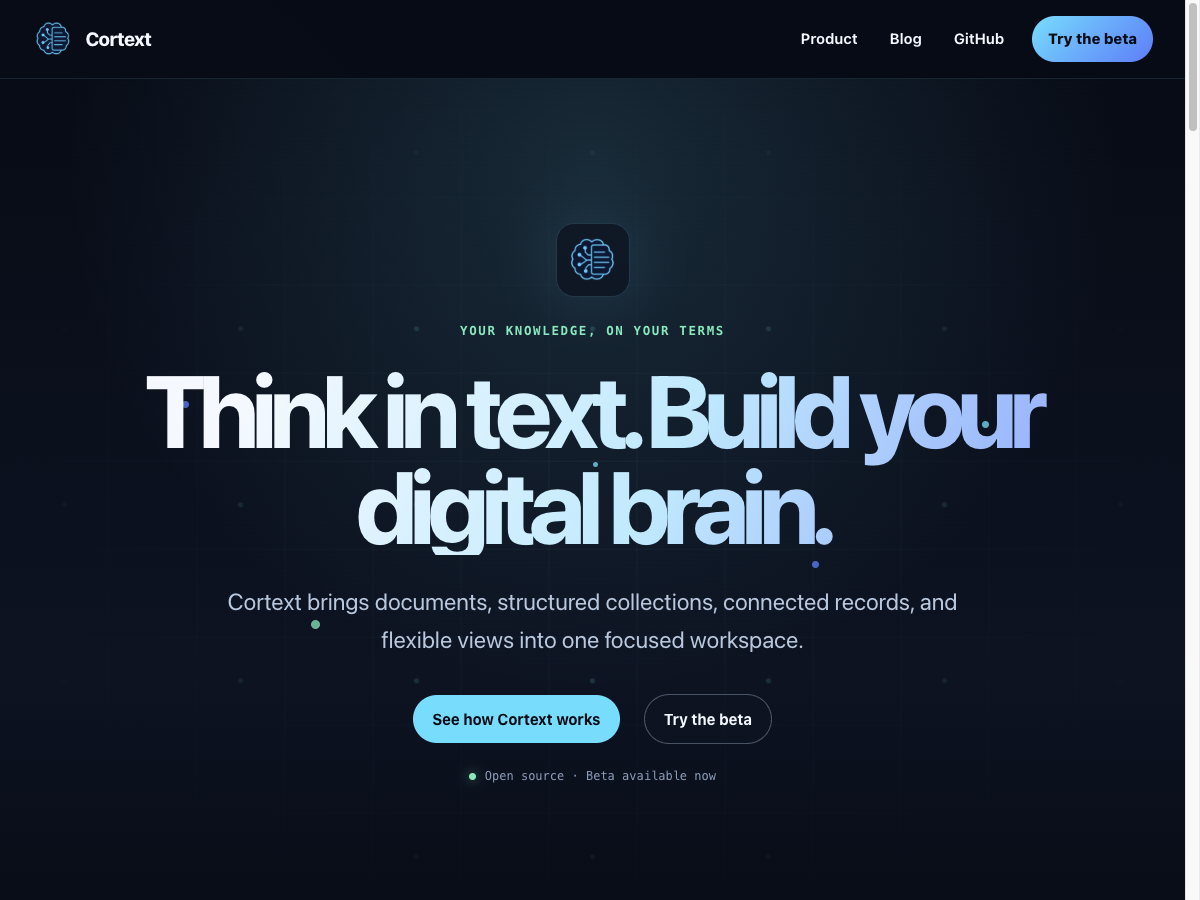
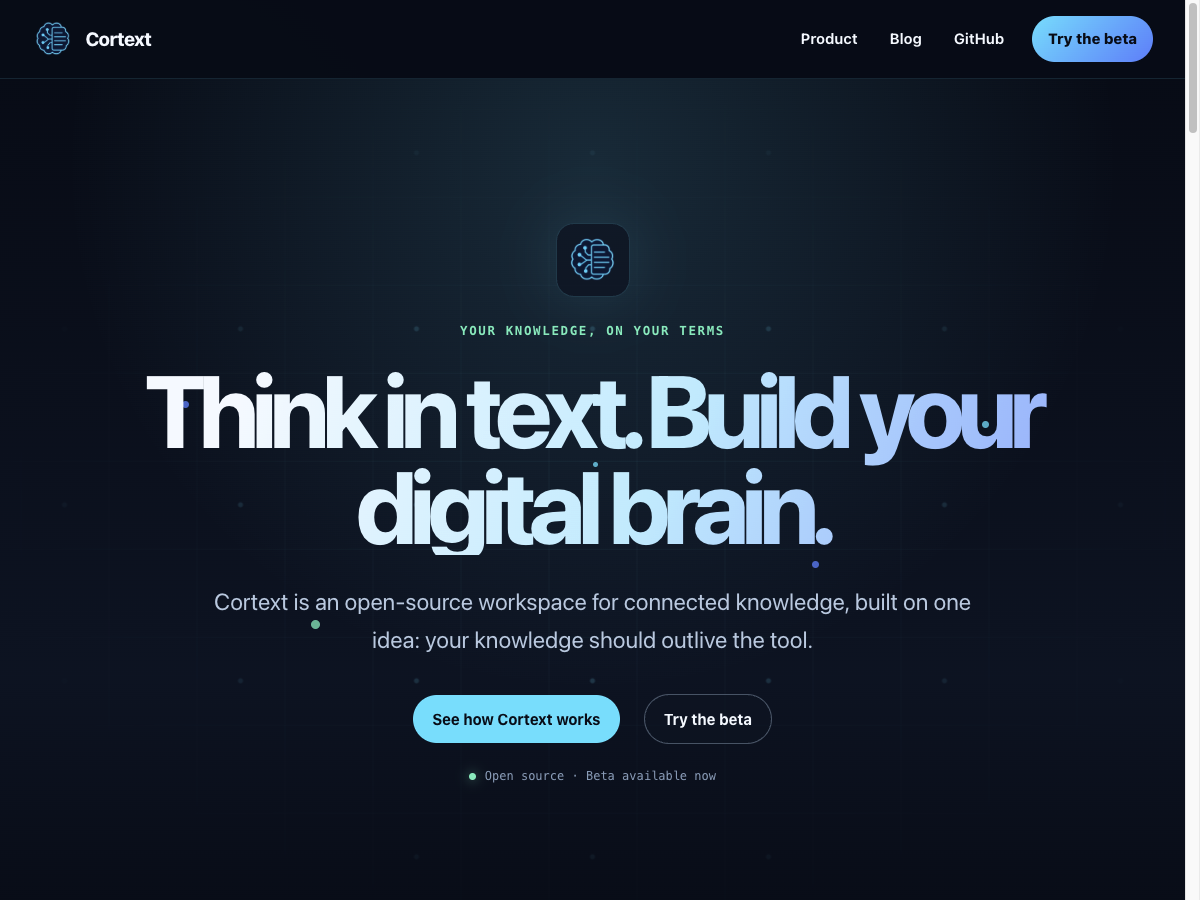
Refine homepage ownership copy

Changed region(s): [[0.185, 0.6533, 0.8017, 0.7467]]

diff --git a/patterns/ownership.php b/patterns/ownership.php
@@ -18,8 +18,8 @@
 	<!-- wp:column {"verticalAlignment":"center","width":"70%"} -->
 	<div class="wp-block-column is-vertically-aligned-center" style="flex-basis:70%">
 		<!-- wp:paragraph {"className":"eyebrow"} --><p class="eyebrow">Open by design</p><!-- /wp:paragraph -->
-		<!-- wp:heading --><h2 class="wp-block-heading">Your knowledge should outlive the tool.</h2><!-- /wp:heading -->
-		<!-- wp:paragraph --><p>Cortext is open-source and stores its content as WordPress posts and metadata. You can run it on infrastructure you control, inspect the code, and take your data with you.</p><!-- /wp:paragraph -->
+		<!-- wp:heading --><h2 class="wp-block-heading">Your knowledge stays yours.</h2><!-- /wp:heading -->
+		<!-- wp:paragraph --><p>Cortext stores its content as WordPress posts and metadata. You can inspect the code, run it on infrastructure you control, and take your data with you.</p><!-- /wp:paragraph -->
 		<!-- wp:paragraph --><p><a class="text-link" href="https://github.com/Automattic/cortext" target="_blank" rel="noreferrer noopener">Read the source on GitHub</a></p><!-- /wp:paragraph -->
 	</div>
 	<!-- /wp:column -->

diff --git a/patterns/hero.php b/patterns/hero.php
@@ -20,7 +20,7 @@
 		<h1 class="wp-block-heading">Think in text. Build your digital brain.</h1>
 		<!-- /wp:heading -->
 		<!-- wp:paragraph {"className":"cortext-hero__subtitle"} -->
-		<p class="cortext-hero__subtitle">Cortext brings documents, structured collections, connected records, and flexible views into one focused workspace.</p>
+		<p class="cortext-hero__subtitle">Cortext is an open-source workspace for connected knowledge, built on one idea: your knowledge should outlive the tool.</p>
 		<!-- /wp:paragraph -->
 		<!-- wp:buttons {"layout":{"type":"flex","justifyContent":"center"}} -->
 		<div class="wp-block-buttons">
